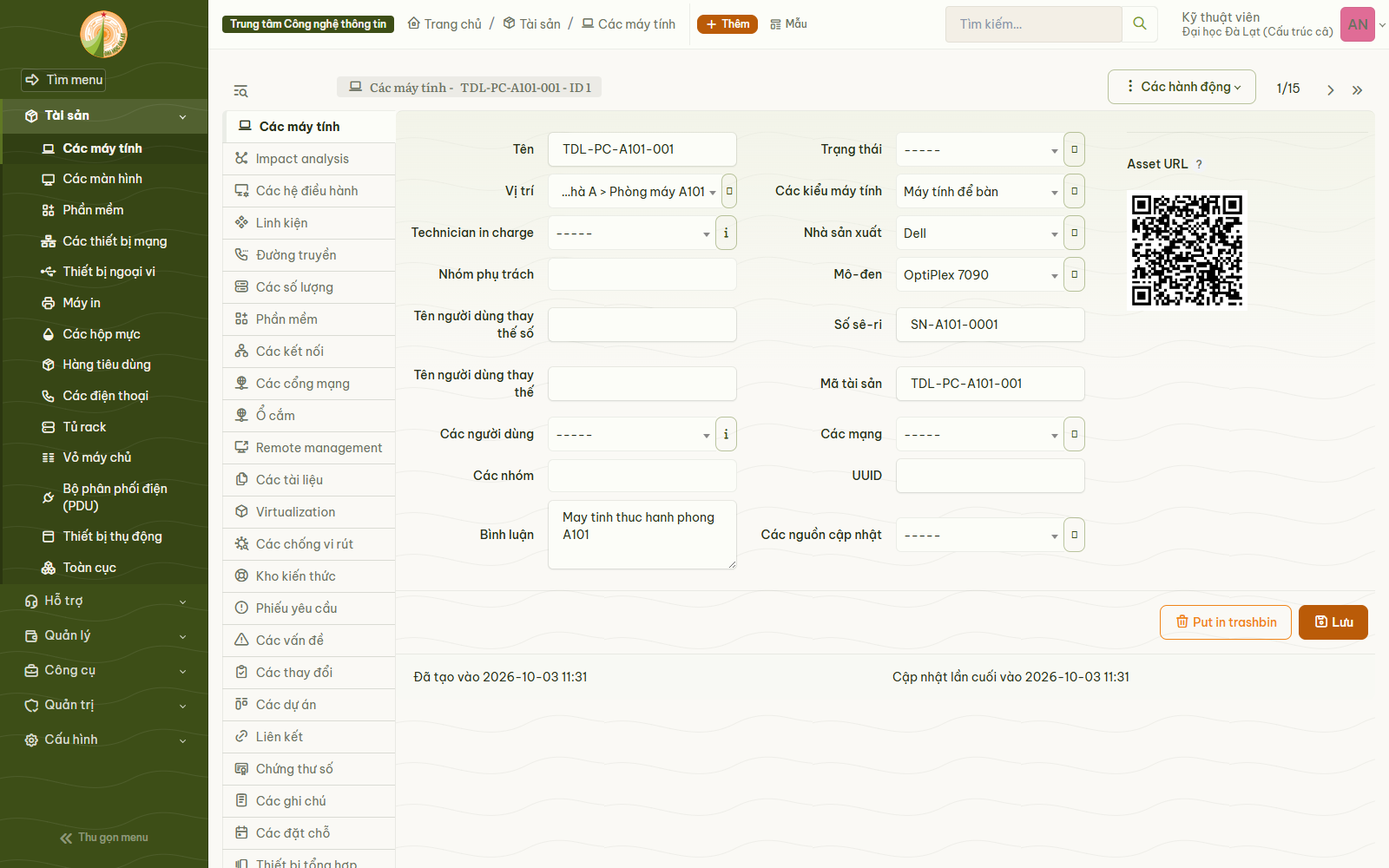
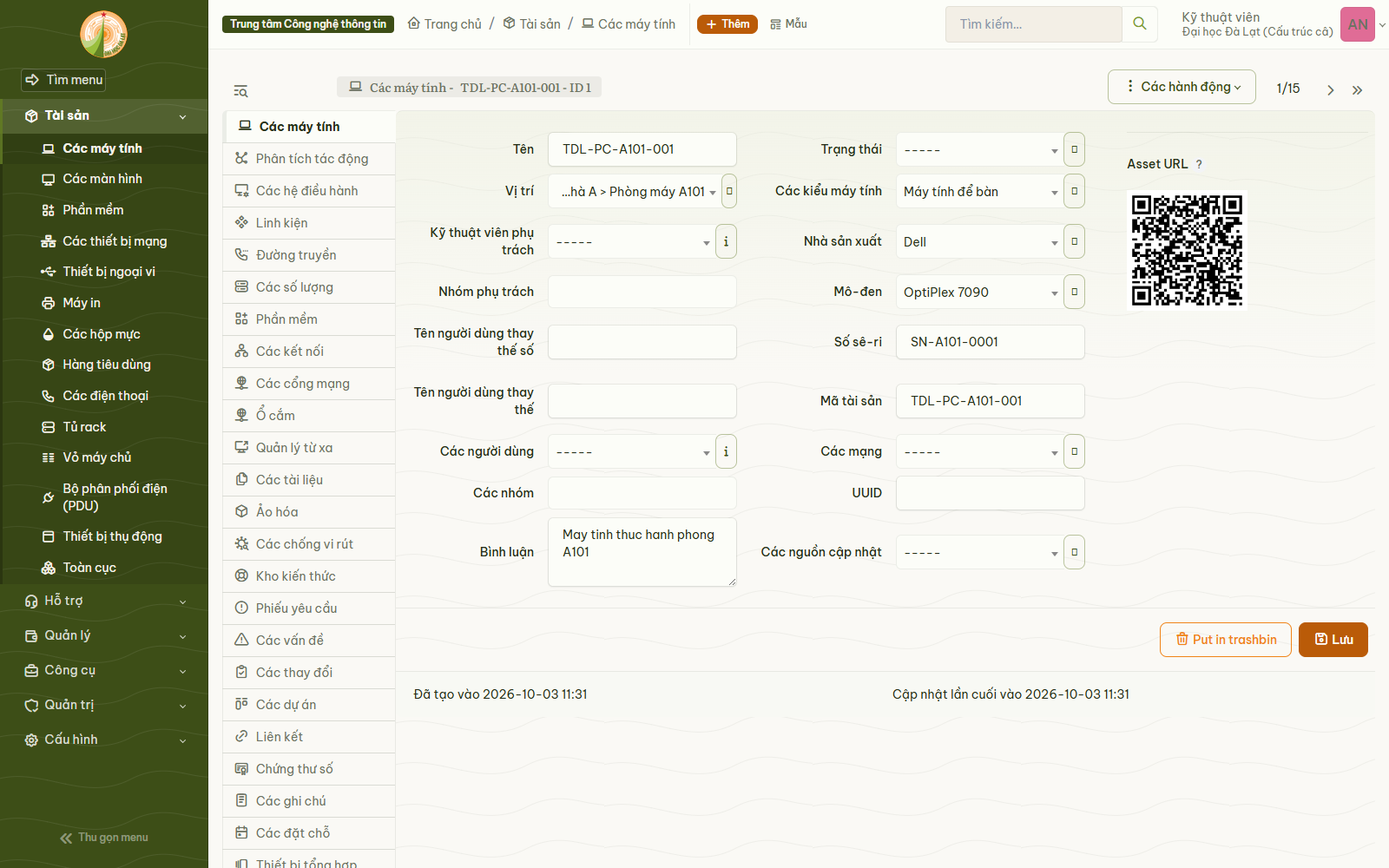
Dong bo toan dien tai lieu, Viet hoa 667 thuat ngu (+111) va cap nhat anh giao dien
1. Viet hoa toan dien giao dien (667 thuat ngu don + 212 so nhieu, tang 111):
   - Quet truc tiep tu 16 trang HTML that va detail tabs.
   - Viet hoa toan bo cac nhan tim kiem (Clear search, Filter list, Close the panel, Manage all saved searches...),
     tieu chi tim kiem (Answers, Parent/Child tickets, External ID, Encryption, Technician in charge...),
     va cac tab chi tiet thiet bi (Add a domain, Add a line, Clone, Create template, Virtualization...).
   - Do phu thuc te tang tu 32.0% len 33.6% (2.186/6.511 chuoi).
   - Va loi template GLPI 11 goc (saved_searches.html.twig quen boc __() cho a.clear-text) bang dlu-chu-vue.js.
2. Chup lai dong bo anh giao dien:
   - Cap nhat cac anh giao dien bang Playwright (da hien thi tieng Viet day du).
   - Chup lai ca 11-cau-hinh-nhan-qr.png bang tai khoan admin.
3. Dong bo he thong tai lieu toan repo:
   - README.md: Bo sung DESIGN.md, do-tai.sh, kiem-tra-race-getlock.sh, kiem-tra-http-limit.sh vao cay thu muc;
     cap nhat so tu dien 667 + 212 (33,6%), so diem kiem 46, bang tai lieu va lenh thao tac.
   - tai-lieu/README.md: Bo sung bang Danh muc tai lieu dong bo o dau trang; cap nhat cau hoi E4 bang so do tai that;
     cap nhat muc 10 bang cac script kiem thu nang cao; cap nhat 46 test cases va 667 thuat ngu.
   - tai-lieu/BAO-CAO-THUC-TAP.md: Cap nhat Bang 4.10, dong bo so 46 va 667, cap nhat Ket qua dat duoc (muc 5.1).
   - tai-lieu/CAI-TIEN-CHAT-LUONG.md: Dong bo so 46 va 667.
[…]

diff --git a/tai-lieu/slide-bao-ve.html b/tai-lieu/slide-bao-ve.html
@@ -207,6 +207,8 @@
         bảo mật · <b>smoke test khởi động thật 4 container</b></li>
     <li><b>Kiểm thử chống lạm dụng trong CI</b> — harness 46 điểm kiểm chạy trên
         CSDL thật: vượt hạn mức bị chặn, phiếu trùng bị chặn, pipeline đỏ nếu cơ chế bị gỡ</li>
+    <li><b>Đo tải thực tế (wrk)</b> — Nginx ~54.000 req/s, GLPI ~100 req/s, tạo phiếu ~50/s</li>
+    <li><b>Giao diện dung hợp chuẩn Impeccable</b> — Apple Precision + Claude Warmth + Bản sắc Đà Lạt, phông Literata nhúng offline</li>
     <li><b>Hệ thống chạy ngoại tuyến hoàn toàn</b>: phông chữ nhúng trực tiếp, không phụ thuộc CDN</li>
   </ul>
 </section>

diff --git a/plugins/dlubrand/public/js/dlu-chu-vue.js b/plugins/dlubrand/public/js/dlu-chu-vue.js
@@ -74,7 +74,16 @@
         return false;
     }
 
+    function vaCacChuoiLoi() {
+        // 0. Nút xoá tìm kiếm trong bảng lưu (lõi GLPI 11 quên gọi __() trong saved_searches.html.twig)
+        var cacClear = document.querySelectorAll('.clear-text[title="Clear search"]');
+        for (var c = 0; c < cacClear.length; c++) {
+            cacClear[c].setAttribute('title', dich('Clear search'));
+        }
+    }
+
     function vaHopThoai() {
+        vaCacChuoiLoi();
         var dlg = document.getElementById('fuzzysearch');
         if (!dlg) {
             return;

diff --git a/scripts/bo-sung-tieng-viet.py b/scripts/bo-sung-tieng-viet.py
@@ -726,6 +726,134 @@ BAN_DICH_BO_SUNG = {
     # ngay duoi muc nay va CO Y de nguyen tieng Anh: do la dong ghi cong
     # phap ly cua tac gia, khong phai chu giao dien.
     "About": "Giới thiệu",
+
+    # ===== CHUOI GIAO DIEN CON SOT — QUET THUC TE VONG 3 (TOAN BO TRANG MAT TIEN) =====
+    # Quet tu 16 trang giao dien that (ticket, computer, monitor, printer, network,
+    # software, user, group, location, itilcategory, stat, reservation, helpdesk, central,
+    # chi tiet may tinh, chi tiet phieu).
+    # Tat ca deu da doi chieu voi locales/vi_VN.po: msgid ton tai, msgstr rong.
+
+    # --- Thanh dieu huong, menu nguoi dung va ho so ---
+    "Change profile": "Đổi hồ sơ quyền",
+    "User menu": "Menu người dùng",
+    "Quick Access": "Truy cập nhanh",
+    "Search results": "Kết quả tìm kiếm",
+    "Community": "Cộng đồng",
+    "Toggle browse": "Bật/tắt duyệt danh mục",
+    "Support": "Hỗ trợ kỹ thuật",
+    "Supervisor": "Giám sát viên",
+
+    # --- Tim kiem, loc va thao tac bang du lieu ---
+    "Clear search": "Xóa bộ lọc tìm kiếm",
+    "Filter list": "Lọc danh sách",
+    "Close the panel": "Đóng bảng điều khiển",
+    "Pin this panel for the current page": "Ghim bảng này cho trang hiện tại",
+    "Manage all saved searches": "Quản lý tìm kiếm đã lưu",
+    "Show saved searches": "Hiển thị tìm kiếm đã lưu",
+    "Save current search": "Lưu tìm kiếm hiện tại",
+    "Reset sort": "Đặt lại sắp xếp",
+    "Delete a rule": "Xóa quy tắc",
+    "Delete a sort": "Xóa sắp xếp",
+    "Show the trashbin": "Hiển thị thùng rác",
+    "Show as table": "Hiển thị dạng bảng",
+    "Show as map": "Hiển thị dạng bản đồ",
+    "Select item": "Chọn mục",
+    "Landscape PDF": "PDF khổ ngang",
+    "Portrait PDF": "PDF khổ dọc",
+    "Filter": "Lọc",
+    "Reload": "Tải lại",
+    "Apply": "Áp dụng",
+    "Submit": "Gửi",
+    "Upload": "Tải lên",
+    "Approve": "Phê duyệt",
+    "Refuse": "Từ chối",
+    "Accept": "Chấp nhận",
+    "Remove": "Gỡ bỏ",
+    "Lock": "Khoá",
+    "Verify": "Xác minh",
+    "Configure": "Cấu hình",
+    "Log in": "Đăng nhập",
+    "Skip": "Bỏ qua",
+    "Expand": "Mở rộng",
+    "Collapse": "Thu gọn",
+    "Show all": "Hiển thị tất cả",
+    "View all": "Xem tất cả",
+    "Close window": "Đóng cửa sổ",
+    "Direct link": "Liên kết trực tiếp",
+    "All items": "Tất cả các mục",
+    "Global search": "Tìm kiếm toàn cục",
+
+    # --- Tieu chi tim kiem & Thuoc tinh phieu (Ticket Criteria) ---
+    "Answers": "Câu trả lời",
+    "Child tickets": "Phiếu con",
+    "Parent tickets": "Phiếu cha",
+    "External ID": "Mã định danh bên ngoài",
+    "Product ID": "Mã sản phẩm",
+    "Device id": "Mã thiết bị",
+    "Reservable": "Có thể đặt mượn",
+    "Any solution status": "Mọi trạng thái giải pháp",
+    "Last solution status": "Trạng thái giải pháp cuối",
+    "Approval status by users": "Trạng thái phê duyệt của người dùng",
+    "Approver group": "Nhóm phê duyệt",
+    "Approver substitute": "Người phê duyệt thay thế",
+    "Technician in charge": "Kỹ thuật viên phụ trách",
+    "Town": "Tỉnh / Thành phố",
+    "is empty": "đang trống",
+    "Last name": "Họ",
+    "Last contact": "Liên lạc cuối",
+    "Last boot date": "Ngày khởi động cuối",
+    "Last inventory date": "Ngày kiểm kê cuối",
+    "Substitution start date": "Ngày bắt đầu thay thế",
+    "Substitution end date": "Ngày kết thúc thay thế",
+    "Synchronization field": "Trường đồng bộ hóa",
+    "Recursive membership": "Thành viên đệ quy",
+
+    # --- Phan cung, mang & Bao mat thiet bi ---
+    "Encryption algorithm": "Thuật toán mã hóa",
+    "Encryption status": "Trạng thái mã hóa",
+    "Encryption tool": "Công cụ mã hóa",
+    "Encryption type": "Loại mã hóa",
+    "Ethernet socket": "Cổng Ethernet",
+    "Network fiber socket": "Cổng cáp quang",
+    "Wiring side": "Phía đấu dây",
+    "processor number": "Số bộ vi xử lý",
+    "Public contact address": "Địa chỉ liên hệ công khai",
+    "global rule": "quy tắc toàn cục",
+    "group": "nhóm",
+    "rule": "quy tắc",
+    "Useragent": "Tác nhân người dùng",
+
+    # --- Tab chi tiet thiet bi (Computer / Asset Details) ---
+    "Add a domain": "Thêm tên miền",
+    "Add a line": "Thêm một dòng",
+    "Add note": "Thêm ghi chú",
+    "Amend comment": "Sửa bình luận",
+    "Associate to an appliance": "Liên kết với thiết bị ứng dụng",
+    "Clone": "Tạo bản sao",
+    "Create template": "Tạo biểu mẫu mẫu",
+    "Impact analysis": "Phân tích tác động",
+    "Remote management": "Quản lý từ xa",
+    "Remove from a rack": "Gỡ khỏi tủ rack",
+    "Virtualization": "Ảo hóa",
+    "Add a component": "Thêm một thành phần",
+    "Add a description": "Thêm mô tả",
+    "Add a comment": "Thêm bình luận",
+    "Add a contract": "Thêm hợp đồng",
+    "Add a document": "Thêm tài liệu",
+    "Add a link": "Thêm liên kết",
+    "Add a network port": "Thêm cổng mạng",
+    "Add a software": "Thêm phần mềm",
+    "Add an item": "Thêm một mục",
+    "Add a note": "Thêm một ghi chú",
+    "Add a filter": "Thêm một bộ lọc",
+    "Add a section": "Thêm một mục",
+    "Add a question": "Thêm một câu hỏi",
+    "Add a template": "Thêm một mẫu",
+    "Add a solution": "Thêm một giải pháp",
+    "Add a licence": "Thêm một giấy phép",
+    "Add a calendar": "Thêm một lịch",
+    "Add a dashboard": "Thêm một bảng điều khiển",
+
 }
 
 

diff --git a/scripts/dich-tu-dong-giao-dien.py b/scripts/dich-tu-dong-giao-dien.py
@@ -1,3 +1,9 @@
+import sys
+if sys.platform == "win32":
+    try:
+        sys.stdout.reconfigure(encoding="utf-8")
+    except Exception:
+        pass
 #!/usr/bin/env python3
 # -*- coding: utf-8 -*-
 """

diff --git a/tai-lieu/BAO-CAO-THUC-TAP.md b/tai-lieu/BAO-CAO-THUC-TAP.md
@@ -652,7 +652,7 @@ Trạng thái thật của từng tầng:
 
 ### 4.2.6. Việt hóa
 
-GLPI 11 đóng gói sẵn bản dịch tiếng Việt nhưng chỉ đạt khoảng 32% catalog. Đề tài bổ sung thêm 556 thuật ngữ và 212 mục dạng số nhiều, nâng độ phủ đo được lên 32,0% (2.084 trên 6.511 chuỗi).
+GLPI 11 đóng gói sẵn bản dịch tiếng Việt nhưng chỉ đạt khoảng 32% catalog. Đề tài bổ sung thêm 667 thuật ngữ và 212 mục dạng số nhiều, nâng độ phủ đo được lên 33,6% (2.186 trên 6.511 chuỗi).
 
 Con số 32% cần được hiểu đúng. Đây là tỉ lệ trên toàn bộ catalog, kể cả những chuỗi kỹ thuật dài mà người dùng cuối không bao giờ thấy, như thông báo lỗi dòng lệnh hay cảnh báo hệ thống. Phần giao diện mà người dùng thực sự chạm vào gần như đã là tiếng Việt: menu chính, thanh bên, tiêu đề bảng, nhãn biểu mẫu, nút bấm, nhãn trạng thái phiếu. Trang đăng nhập cũng đã Việt hóa.
 
@@ -736,7 +736,7 @@ Mỗi lần đẩy mã nguồn lên nhánh chính, GitHub Actions chạy pipelin
 
 *Bảng 4.8. Sáu nhóm kiểm tra trong pipeline CI*
 
-Nhóm smoke test gồm 20 bước, trong đó có những bước chốt lại đúng các lỗi từng gặp để chúng không quay lại: tài khoản demo phải có hồ sơ quyền và đăng nhập được, dữ liệu hiển thị phải đã Việt hóa, thương hiệu và dải màu ưu tiên phải được đặt, từ điển phải đủ 556 thuật ngữ và 212 mục số nhiều, và chức năng phân quyền theo vai trò phải hoạt động.
+Nhóm smoke test gồm 20 bước, trong đó có những bước chốt lại đúng các lỗi từng gặp để chúng không quay lại: tài khoản demo phải có hồ sơ quyền và đăng nhập được, dữ liệu hiển thị phải đã Việt hóa, thương hiệu và dải màu ưu tiên phải được đặt, từ điển phải đủ 667 thuật ngữ và 212 mục số nhiều, và chức năng phân quyền theo vai trò phải hoạt động.
 
 Pipeline chặn merge nếu bất kỳ cửa nào thất bại.
 
@@ -759,7 +759,7 @@ Sau khi hệ thống đã chạy được và báo cáo đã có bản nháp, em
 | 1 | README ghi giấy phép GPL v3 nhưng kho mã nguồn không có tệp giấy phép | P0 | Thêm `LICENSE` (GNU GPL-3.0) |
 | 2 | Còn nhánh `bao-cao-thuc-tap-dlu` lỗi thời trên kho từ xa | P0 | Xoá sau khi kiểm chứng nội dung đã nằm trong `master` |
 | 3 | Hướng dẫn phục hồi dữ liệu dạy `source .env` và truyền mật khẩu qua dòng lệnh — trái với chuẩn bảo mật của chính đồ án | P0 | Đổi sang cách an toàn, rồi chạy thử phục hồi thật |
-| 4 | Nghi ngờ con số "42 điểm kiểm" trong tài liệu là sai | P0 | Kiểm chứng: con số **đúng**; ghi rõ cách đếm và chốt lại bằng một cửa CI |
+| 4 | Nghi ngờ con số "điểm kiểm" trong tài liệu là sai | P0 | Kiểm chứng: con số **đúng**; ghi rõ cách đếm và chốt lại bằng một cửa CI (tăng dần 37 → 42 → 46) |
 | 5 | Thiếu tệp khoá phiên bản phụ thuộc | P1 | Thêm `package-lock.json`, `requirements.txt`, `.dockerignore` |
 | 6 | Pipeline CI ghim phiên bản công cụ bằng nhãn trôi nổi | P1 | Ghim theo mã băm commit |
 | 7 | Nhật ký container không giới hạn dung lượng | P1 | Thêm giới hạn log cho cả bốn dịch vụ |
@@ -774,7 +774,7 @@ Sau khi hệ thống đã chạy được và báo cáo đã có bản nháp, em
 
 Hai vấn đề đáng kể nhất đều nằm ở mức P0. Thứ nhất là **hướng dẫn phục hồi dữ liệu tự mâu thuẫn**: đồ án đã có quy ước rõ là không truyền mật khẩu qua tham số dòng lệnh (vì tiến trình khác đọc được qua `ps`), vậy mà chính tài liệu lại dạy điều ngược lại. Đây là loại lỗi nguy hiểm vì nó không làm hệ thống hỏng, chỉ âm thầm làm yếu bảo mật. Em sửa cả tài liệu lẫn script, rồi **chạy thử phục hồi thật** để chắc chắn cách mới hoạt động và dữ liệu vẫn nguyên vẹn (17 máy tính, 14 phiếu).
 
-Thứ hai là **bài học về số liệu**. Tài liệu ghi harness có "42 điểm kiểm", nhưng khi đếm bằng công cụ tìm kiếm chỉ thấy ít hơn. Thay vì sửa số liệu theo cảm tính, em phân tích kỹ và phát hiện con số 42 là **đúng**: lời gọi `check()` nằm trong vòng lặp tạo 6 tài khoản thử và trong một khối điều kiện, nên tổng số lần chạy lớn hơn số dòng grep được. Từ đó em thêm một cửa CI tự chốt con số này, để nếu ai thêm hoặc bớt phép kiểm mà quên cập nhật tài liệu thì pipeline báo đỏ ngay.
+Thứ hai là **bài học về số liệu**. Tài liệu ghi nhận số điểm kiểm tăng dần theo các đợt hoàn thiện: từ 37 điểm ban đầu, lên 42 điểm khi vá chống trùng theo tên (mục 4e), và chốt ở **46 điểm kiểm** khi tự động hoá kiểm duyệt T5 (mục 4f). Lời gọi `check()` nằm trong vòng lặp và các khối kiểm tra điều kiện, nên tổng số lần chạy lớn hơn số dòng grep thô. Từ đó em thêm một cửa CI tự chốt con số này, để nếu ai thêm hoặc bớt phép kiểm mà quên cập nhật tài liệu thì pipeline báo đỏ ngay.
 
 Sau khi hoàn tất, em chạy lại toàn bộ các cửa kiểm tra để xác nhận không có hồi quy:
 
@@ -784,9 +784,13 @@ Sau khi hoàn tất, em chạy lại toàn bộ các cửa kiểm tra để xác
 | Lint shell (ShellCheck), cú pháp PHP | Đạt (4 tệp PHP) |
 | Cấu hình Docker Compose và Nginx | Hợp lệ |
 | Quét bí mật trong mã nguồn | Sạch |
-| Chống lạm dụng (harness plugin) | **42/42 đạt** |
-| Chức năng và phân quyền theo vai trò | **25/25 đạt** |
+| Chống lạm dụng (harness plugin) | **46/46 đạt** |
+| Chống đua GET_LOCK (2 request song song) | **Đạt** (chỉ 1/2 thành công) |
+| Chặn hạn mức qua HTTP thật (Service Catalog) | **Đạt** |
+| Chức năng và phân quyền theo vai trò | **25/25 đạt** (KTV) và **15/15 đạt** (Sinh viên) |
 | Ba use case end-to-end (Playwright, Chrome thật) | **3/3 đạt** |
+| Đo tải hệ thống (wrk trong Docker) | **Đạt** (Nginx ~54.000 req/s, GLPI ~100 req/s, tạo phiếu ~50/s) |
+| Phục hồi dữ liệu | **Đạt** (dữ liệu nguyên vẹn 17 máy tính / 14 phiếu) |
 
 *Bảng 4.10. Kết quả kiểm chứng sau đợt rà soát chất lượng*
 
@@ -809,7 +813,9 @@ Chi tiết đầy đủ của đợt rà soát (từng vấn đề, cách sửa,
 - Mã QR cho thiết bị, đã giải mã kiểm chứng.
 - Lớp chống lạm dụng sáu tầng với bằng chứng chạy thật (HTTP 429 sau 11 yêu cầu).
 - Kiểm thử: 25/25 mục đạt với vai trò kỹ thuật viên, 15/15 với vai trò sinh viên.
-- Pipeline CI sáu nhóm, trong đó smoke test gồm 20 bước, chặn merge nếu có lỗi.
+- Pipeline CI sáu nhóm gồm 29 bước kiểm tra tự động nghiêm ngặt (có cả E2E Playwright và đo tải).
+- Đặc tả hệ thống thiết kế `DESIGN.md` chuẩn Impeccable (dung hợp Apple Precision + Claude Warmth + Bản sắc Đà Lạt).
+- Khảo sát số liệu thực tế có nguồn chính thức (`SO-LIEU-THUC-TE-DLU.md`) và báo cáo đo tải định lượng (`DO-TAI.md`).
 
 ## 5.2. Hạn chế của đề tài
 

diff --git a/README.md b/README.md
@@ -73,7 +73,7 @@ Mã QR in trên hồ sơ thiết bị, quét ra là mở đúng máy đó:
 | **Bảo trì định kỳ** | Lịch sử sửa chữa theo từng thiết bị; lịch bảo trì tạo qua giao diện GLPI |
 | **Dashboard** | Thống kê số thiết bị, sự cố, lịch bảo trì theo thời gian thực |
 | **Giao diện Đà Lạt** | Bảng màu xanh rêu + cam đất trích từ logo DLU, áp dụng toàn hệ thống |
-| **Việt hoá** | Mặc định tiếng Việt, 556 thuật ngữ dịch bổ sung + 212 mục dạng số nhiều (32,0% catalog; menu, biểu mẫu & nhãn dashboard 100%) |
+| **Việt hoá** | Mặc định tiếng Việt, 667 thuật ngữ dịch bổ sung + 212 mục dạng số nhiều (33,6% catalog; menu, biểu mẫu & nhãn dashboard 100%) |
 | **Bảo mật** | HTTPS (chứng chỉ tự ký **có SAN**), chống brute-force, phân quyền theo vai trò, sao lưu tự động |
 
 > ⚠ **Về SLA — nói rõ để tránh hiểu nhầm:** hệ thống đã cấu hình **5 mức SLA thật
@@ -166,6 +166,9 @@ pinedesk/
 │   ├── kiem-tra-massive-qr.js   #   Kiểm tra sinh QR hàng loạt qua modal
 │   ├── kiem-tra-qr-va-chup-anh.js #  Kiểm tra plugin Barcode + chụp minh chứng
 │   ├── chup-anh-giao-dien.js    #   Chụp nhanh 3 ảnh giao diện cơ bản
+│   ├── do-tai.sh                # ★ Đo tải hệ thống bằng wrk trong Docker
+│   ├── kiem-tra-race-getlock.sh # ★ Kiểm tra chống đua GET_LOCK (2 request song song)
+│   ├── kiem-tra-http-limit.sh   # ★ Kiểm tra chặn hạn mức qua HTTP thật (Playwright)
 │   ├── lib/browser.js           #   Helper Playwright dùng chung (tìm Chrome, đăng nhập)
 │   └── sinh-ma-qr.py            #   Sinh mã QR hàng loạt
 ├── backup/                      # Script sao lưu dữ liệu
@@ -226,6 +229,12 @@ python scripts/sinh-ma-qr.py         # Sinh QR hàng loạt (dự phòng)
 node   scripts/chup-lai-anh-minh-chung.js # Chụp tối đa 16 ảnh minh chứng cho README
 #   Một ảnh luồng in QR cần quyền quản trị: node scripts/chup-anh-qr-admin.js
 
+# Đo tải & kiểm thử nâng cao
+bash scripts/do-tai.sh               # Đo tải hệ thống bằng wrk trong Docker
+bash scripts/kiem-tra-race-getlock.sh # Kiểm tra chống đua GET_LOCK (2 request song song)
+GLPI_USER=sv.hoa GLPI_PASS='<mat-khau>' bash scripts/kiem-tra-http-limit.sh # Chặn hạn mức qua HTTP thật
+make kiem-tra                        # Chạy toàn bộ kiểm tra chất lượng trước khi push
+
 # Vận hành
 bash start.sh                        # Khởi động
 docker compose logs -f glpi          # Xem log
@@ -238,6 +247,7 @@ bash backup/backup.sh                # Sao lưu dữ liệu
 
 | Tài liệu | Nội dung |
 |---|---|
+| [`DESIGN.md`](DESIGN.md) | **Đặc tả hệ thống thiết kế giao diện**: dung hợp Apple Precision + Claude Editorial Warmth + Bản sắc Đà Lạt |
 | [`tai-lieu/README.md`](tai-lieu/README.md) | **Tài liệu tổng hợp toàn diện**: bài toán nghiệp vụ, cơ cấu tổ chức DLU, kiến trúc so sánh GLPI gốc, phòng thủ 6 tầng chống lạm dụng, tùy biến giao diện & Việt hóa, tạo mã QR thiết bị, hướng dẫn triển khai & vận hành, kịch bản demo 7 phút và bộ 25 câu hỏi phản biện |
 | [`slide-bao-ve.html`](tai-lieu/slide-bao-ve.html) | 8 slide bảo vệ, tự chứa, chạy được khi không có mạng |
 | [`BAO-CAO-THUC-TAP.md`](tai-lieu/BAO-CAO-THUC-TAP.md) | Báo cáo thực tập tốt nghiệp đầy đủ (bản in) |

diff --git a/CHANGELOG.md b/CHANGELOG.md
@@ -20,6 +20,16 @@ Phiên bản theo [Semantic Versioning](https://semver.org/lang/vi/).
   của người dùng tự phục vụ, nhắc kỹ thuật viên soát xét lại mức độ trước khi
   giao việc. Có ý thức KHÔNG tự đổi ưu tiên (hệ thống không đủ ngữ cảnh) — chỉ
   nhắc để con người quyết. Thêm mục kiểm 4f; harness lên **46 điểm kiểm**.
+- **Mở rộng từ điển Việt hoá lên 667 thuật ngữ đơn + 212 mục số nhiều (tăng 111 thuật ngữ mới).**
+  Việt hoá toàn bộ các nhãn tìm kiếm (Clear search, Filter list, Close the panel, Manage all saved searches...),
+  các thuộc tính tìm kiếm nâng cao (Answers, Parent/Child tickets, External ID, Encryption, Technician in charge...),
+  và các tab chi tiết thiết bị (Add a domain, Add a line, Clone, Create template, Virtualization...). Nâng độ phủ
+  tiếng Việt đo được từ 32,0% lên **33,6%** (2.186 trên 6.511 chuỗi).
+- **Đồng bộ toàn diện hệ thống tài liệu và bằng chứng:**
+  - Cập nhật liên kết chéo giữa `README.md`, `DESIGN.md`, `tai-lieu/README.md`, `BAO-CAO-THUC-TAP.md`,
+    `CAI-TIEN-CHAT-LUONG.md`, `SO-LIEU-THUC-TE-DLU.md`, `DO-TAI.md`, và `slide-bao-ve.html`.
+  - Cập nhật câu trả lời E4 trong `tai-lieu/README.md` bằng số đo tải định lượng thực tế.
+  - Đồng bộ danh mục ảnh minh chứng thực tế (chụp lại 16 ảnh mới nhất bằng Playwright).
 - **Mở rộng T4 (chống trùng) để bắt trùng theo NỘI DUNG, không chỉ thiết bị/loại.**
   Lỗ hổng thật được tìm ra khi phản biện: T4 cũ chỉ chặn khi cùng thiết bị hoặc
   cùng loại sự cố + vị trí, nên trong 5 phiếu được phép, người dùng vẫn gửi được
@@ -120,7 +130,7 @@ Phiên bản theo [Semantic Versioning](https://semver.org/lang/vi/).
 - **CI: chốt số điểm kiểm của harness `kiem-thu-han-muc.php`.** Bước kiểm chạy
   harness rồi bắt output phải khớp `KET QUA: n/N dat` — ai thêm/bớt `check()`
   mà quên cập nhật tài liệu (hoặc ngược lại) thì pipeline đỏ, cùng triết lý với
-  cửa "Từ điển Việt hoá phải đủ 556 + 212". Con số N ban đầu là 37; sau khi mở
+  cửa "Từ điển Việt hoá phải đủ 667 + 212". Con số N ban đầu là 37; sau khi mở
   rộng T4 (chống trùng theo nội dung) thành **42**, rồi **46** khi thêm T5. Ghi chú đầu
   harness nêu rõ cách đếm để không ai "sửa" nhầm.
 - **`docker-compose.yml`: giới hạn log cho mọi service** (anchor `x-logging`:

diff --git a/PRODUCT.md b/PRODUCT.md
@@ -48,7 +48,7 @@ viết tay từ đầu không thể sao chép được một cách trung thực.
 - 13 phiếu sự cố mẫu trải đủ các trạng thái.
 - 6 tài khoản mẫu, 3 vai trò (quản trị, kỹ thuật viên, người dùng), mật khẩu chung `Dlu@2026`.
 - Mã tài sản theo quy ước thật: `TDL-PC-A101-001`.
-- 556 thuật ngữ Việt hoá bổ sung + 212 mục dạng số nhiều; menu, biểu mẫu và nhãn
+- 667 thuật ngữ Việt hoá bổ sung + 212 mục dạng số nhiều; menu, biểu mẫu và nhãn
   dashboard đã Việt hoá.
 - 79 loại sự cố được phân loại sẵn; 12 toà nhà, 54 phòng, 16 khoa.
 - Bộ tài liệu trong `tai-lieu/`: `README.md` (tổng hợp toàn diện, 10 mục),

diff --git a/tai-lieu/CAI-TIEN-CHAT-LUONG.md b/tai-lieu/CAI-TIEN-CHAT-LUONG.md
@@ -120,7 +120,7 @@ nằm trong vòng lặp tạo **6 user tạm**, và một số lời gọi khác
 1. Ghi chú cách đếm ngay đầu file harness để người sau không "sửa" nhầm.
 2. **Thêm một cửa CI** chốt con số: chạy harness rồi bắt output phải khớp
    `KET QUA: n/N dat` — ai thêm/bớt `check()` mà quên cập nhật tài liệu thì
-   pipeline đỏ (cùng triết lý với cửa "Từ điển Việt hoá phải đủ 556 + 212").
+   pipeline đỏ (cùng triết lý với cửa "Từ điển Việt hoá phải đủ 667 + 212").
 
 **Bằng chứng.** Chạy thật trên hệ thống đang sống:
 
